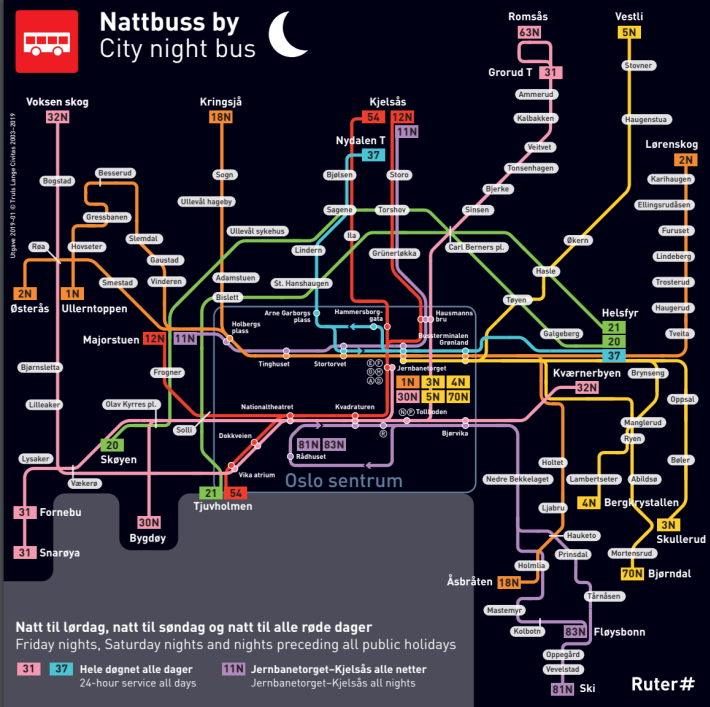
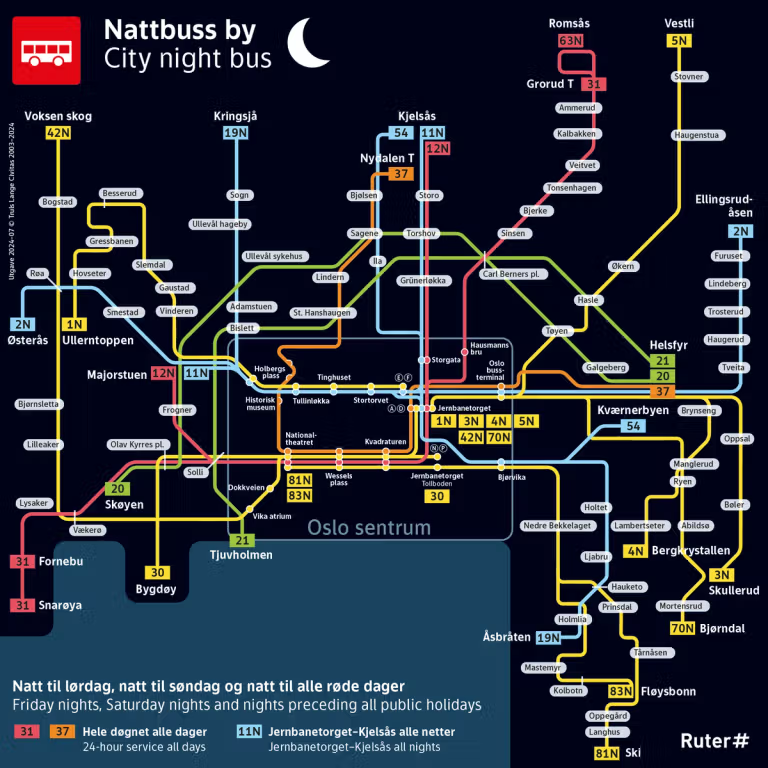
Oppdater lokalområder og nattbussinformasjon

diff --git a/content/area/transport/bus/_index.md b/content/area/transport/bus/_index.md
@@ -12,7 +12,7 @@ Flere busslinjer stopper i nærheten av Setra borettslag.
 
 ## Hovseter skole
 
-Her stopper buss 46 mellom Ullerntoppen og Majorstuen samt nattbuss N1.
+Her stopper buss 46 mellom Ullerntoppen og Majorstuen. Om natten stopper 1N mellom Jernbanetorget og Ullerntoppen ved både Hovseter skole og Hovseter.
 
 [Se avgangstider](https://ruter.no/reiseplanlegger/?departures=true&departureMode=bus&departureStop=%7B%22id%22%3A%22NSR%3AStopPlace%3A6365%22%2C%22name%22%3A%22Hovseter+skole%22%2C%22county%22%3A%22Oslo%22%2C%22locality%22%3A%22Oslo%22%2C%22coordinates%22%3A%7B%22x%22%3A10.656557%2C%22y%22%3A59.949485%7D%2C%22category%22%3A%5B%22onstreetBus%22%5D%7D)
 
@@ -20,18 +20,30 @@ Her stopper buss 46 mellom Ullerntoppen og Majorstuen samt nattbuss N1.
 
 Enkelte avganger på Flybussen Connect linje FB3 går til og fra Huseby skole. Den ordinære ruten har Radiumhospitalet som endepunkt, så sjekk alltid den aktuelle avgangen før du reiser.
 
+Om natten stopper 2N mellom Østerås T og Ellingsrudåsen T ved Huseby skole. Linjen stopper også ved Røa T.
+
 [Sjekk avgang og pris hos Flybussen](https://www.flybussen.no/).
 
 ## Røa kirke
 
-Her stopper buss 32 mellom Kværnerbyen og Voksen skog samt buss 41 til Sørkedalen.
+Her stopper buss 42 mellom Voksen skog og Tjuvholmen samt buss 41 mellom Røa T og Sørkedalen. Om natten stopper 42N mellom Jernbanetorget og Voksen skog ved både Røa T og Røa kirke.
 
 [Se avgangstider](https://ruter.no/reiseplanlegger/?departures=true&departureMode=bus&departureStop=%7B%22id%22%3A%22NSR%3AStopPlace%3A6390%22%2C%22name%22%3A%22R%C3%B8a+kirke%22%2C%22county%22%3A%22Oslo%22%2C%22locality%22%3A%22Oslo%22%2C%22coordinates%22%3A%7B%22x%22%3A10.644247%2C%22y%22%3A59.950017%7D%2C%22category%22%3A%5B%22onstreetBus%22%5D%7D).
 
 ## Nattbuss
 
-Hovseter har et godt nattbusstilbud. Tre nattbusslinjer kjører forbi natt til lørdag og søndag, så det er enkelt å komme seg hjem fra byen uten taxi. N1 stopper ved Hovseter skole, N2 ved Huseby skole og N32 ved Røa kirke.
+Tre nattbusslinjer har stopp i gangavstand fra Setra borettslag:
 
-![Nattbuss](nattbuss.png)
+- **1N Jernbanetorget–Ullerntoppen** stopper ved Hovseter skole og Hovseter.
+- **2N Østerås T–Ellingsrudåsen T** stopper ved Huseby skole og Røa T.
+- **42N Jernbanetorget–Voksen skog** stopper ved Røa T og Røa kirke.
+
+Linjekartet oppgir natt til lørdag, natt til søndag og netter før offentlige helligdager. Sjekk alltid Ruters reiseplanlegger før avreise, siden rutene kan bli endret.
+
+![Ruters linjekart for nattbuss i Oslo](nattbuss.png "Ruters nattbusskart, utgave juli 2024")
+
+Kartet er Ruters linjekart fra juli 2024. Linjenavn og stoppesteder er kontrollert mot rutetabellene som gjelder fra 7. april 2026.
+
+[Se oppdaterte rutetabeller og linjekart hos Ruter](https://ruter.no/planlegg-reise/rutetabeller-og-linjekart/buss-i-oslo)
 
 {{% children description="true" depth="1" %}}

diff --git a/content/area/projects/husebypark/_index.md b/content/area/projects/husebypark/_index.md
@@ -1,0 +1,23 @@
+---
+title: Huseby Park
+linktitle: Huseby Park
+description: Ved Hovseter T-banestasjon planlegges Huseby Park med rundt 200 boliger og et nytt parkområde.
+weight: 4
+lastmod: 2026-08-15
+---
+
+## Planlagt boligprosjekt ved Hovseter T
+
+Huseby Park er navnet på det planlagte boligprosjektet i Gamle Hovsetervei 3, rett ved Hovseter T-banestasjon. Eiendommen består i dag av det tidligere pikeinternatet på Hovseter og en vaktmesterbolig.
+
+Utbygger planlegger rundt 200 selveierleiligheter i forskjellige størrelser. Planene omfatter også et parkområde rundt bebyggelsen og noe næringsvirksomhet mot Stasjonsveien. Det endelige antallet boliger og utformingen kan bli endret gjennom den videre behandlingen.
+
+## Status per august 2026
+
+Prosjektet er fortsatt under regulering og kan derfor ikke regnes som endelig vedtatt eller klart for byggestart. Oslo kommune startet i november 2025 forhandlinger om en utbyggingsavtale med Scandinavian Development AS. En slik avtale skal legges ut på høring og behandles politisk.
+
+Utbygger oppgir forventet salgsstart i tredje kvartal 2026. Dette er en foreløpig fremdriftsplan og kan bli endret.
+
+- [Se prosjektets hjemmeside](https://www.husebypark.no/)
+- [Følg plansak 2025/06867 hos Plan- og bygningsetaten](https://innsyn.pbe.oslo.kommune.no/saksinnsyn/casedet.asp?direct=Y&mode=&caseno=202506867)
+- [Les om forhandlingene om utbyggingsavtale hos Oslo kommune](https://www.oslo.kommune.no/kunngjoringer/gamle-hovsetervei-3-oppstart-av-forhandlinger-om-utbyggingsavtale/)

diff --git a/content/area/kindergardenschools/schools/_index.md b/content/area/kindergardenschools/schools/_index.md
@@ -3,10 +3,11 @@ title: Skoler
 linktitle: Skoler
 description: Setra ligger nær flere barneskoler, en ungdomsskole og en videregående skole.
 weight: 4
+lastmod: 2026-08-15
 ---
 
 
-![Huseby skole - barneskole](DJI_0595.jpg "Huseby skole - barneskole")
+![Huseby skole og skolegården sett fra luften](huseby-skole-2026-08-15.jpg "Huseby skole, 15. august 2026")
 
 Huseby skole er barneskolen Setra borettslag sogner til. Den ble etablert i 1861 og har ca. 700 elever. Huseby skole er blant de [beste skolene](https://www.udir.no/tall-og-forskning/statistikk/statistikk-grunnskole/nasjonale-prover-5.-trinn/) i landet når det gjelder resultater.
 
